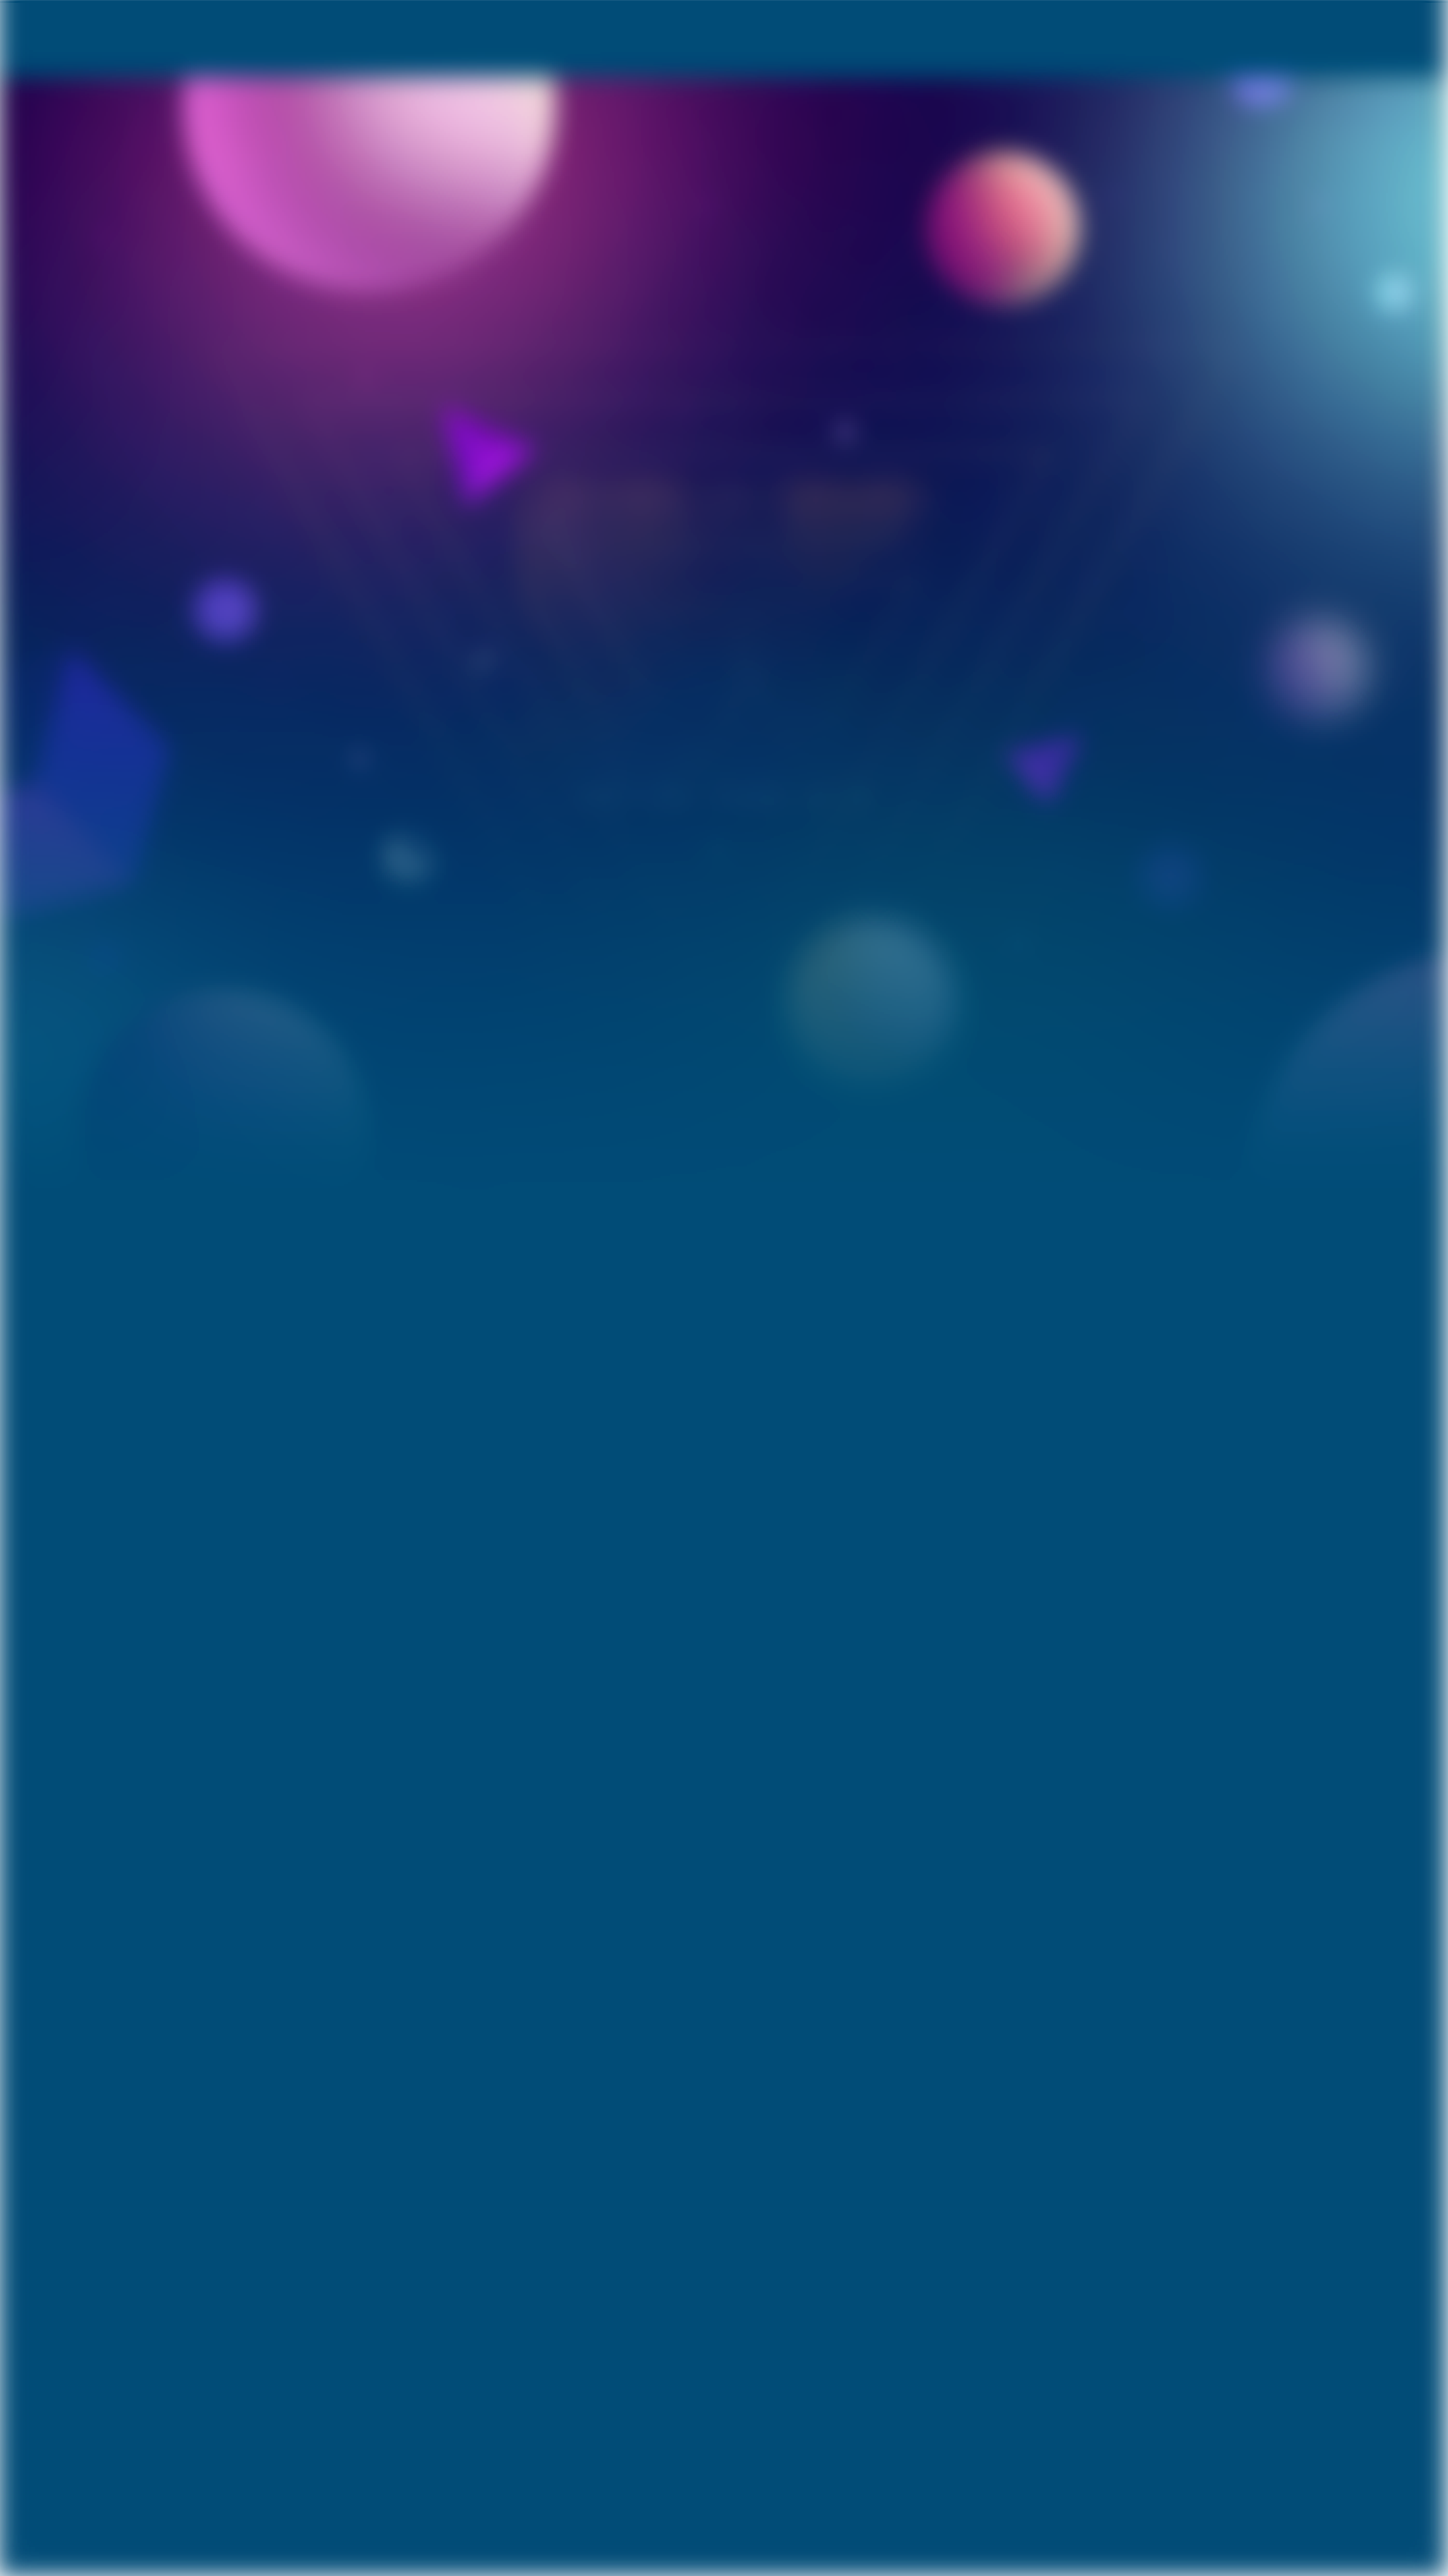
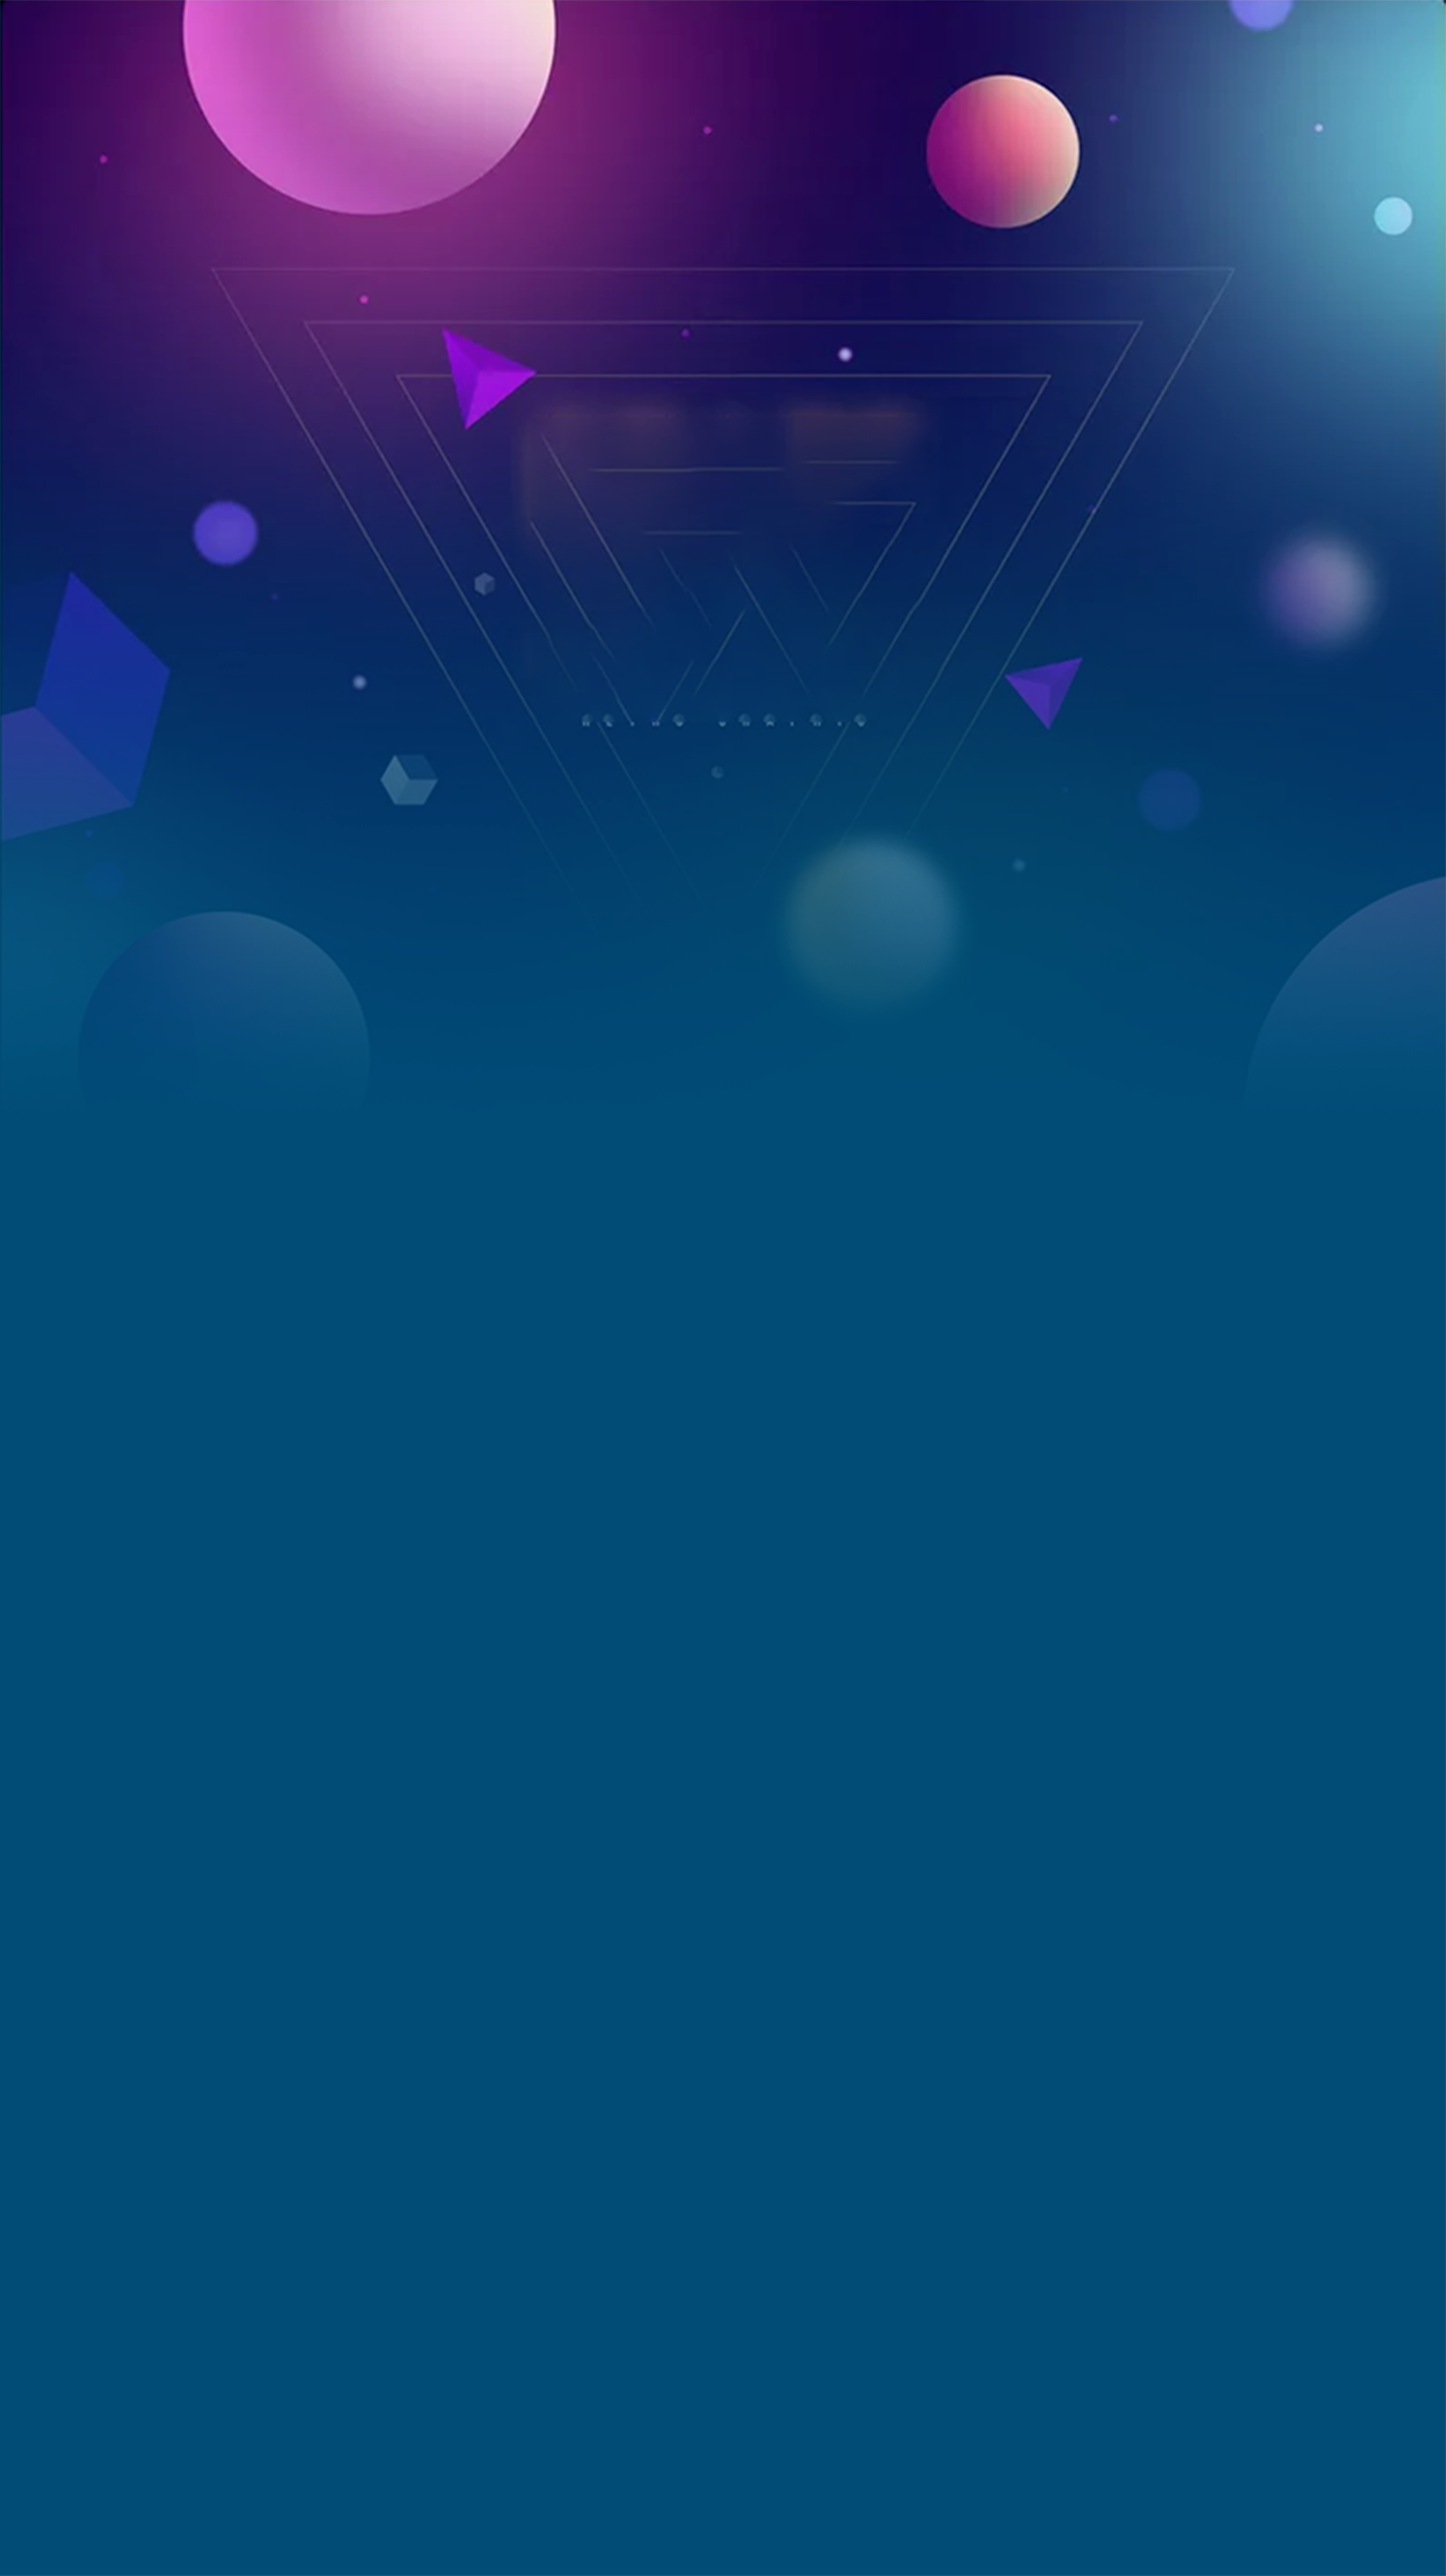
2019/09/20 切图

diff --git a/src/view/register.vue b/src/view/register.vue
@@ -55,19 +55,19 @@
         </div>
         <div class="cell-form">
           <label class="cell-label" for>代表行业 -</label>
-          <input class="cell-input" type="text" v-model="form.username" placeholder="请输入参会人姓名" />
+          <input class="cell-input" type="text" v-model="form.industry" placeholder="请输入代表行业" />
         </div>
         <div class="cell-form">
           <label class="cell-label" for>联系电话 -</label>
-          <input class="cell-input" type="text" v-model="form.username" placeholder="请输入参会人姓名" />
+          <input class="cell-input number" type="number" v-model="form.phone" placeholder="请输入联系电话" />
         </div>
         <div class="cell-form">
           <label class="cell-label" for>所在区域 -</label>
-          <input class="cell-input" type="text" v-model="form.username" placeholder="请输入参会人姓名" />
+          <input class="cell-input" type="text" v-model="form.area" placeholder="请输入所在区域" />
         </div>
         <div class="cell-form">
           <label class="cell-label" for>分会名称 -</label>
-          <input class="cell-input" type="text" v-model="form.username" placeholder="请输入参会人姓名" />
+          <input class="cell-input" type="text" v-model="form.nickname" placeholder="请输入分会名称" />
         </div>
 
         <!-- <van-field
@@ -103,7 +103,7 @@
       </div>
 
       <div class="btn-wrapper">
-        <van-button type="primary" size="large" class="confirm">提交</van-button>
+        <van-button type="primary" @click="confirms" size="large" class="confirm">提交</van-button>
       </div>
       <van-popup round v-model="show" position="bottom">
         <van-picker
@@ -126,11 +126,16 @@ export default {
     return {
       form: {
         username: "",
+        industry:"",
+        phone:"",
+        area:"",
+        nickname:"",
         tel: "",
         code: "",
         identity: "1",
         identity_text: "会员"
       },
+      state:false,
       code_text: "获取",
       clientHeight: 603,
       columns: [
@@ -173,6 +178,17 @@ export default {
         time = parseInt(time) - 1;
         this.code_text = time + "s";
       }, 1000);
+    },
+    confirms(){
+        if (this.state) {
+            this.$router.push({
+                path:"/"
+            })
+        }else{
+            this.$router.push({
+                path:"/audit"
+            })
+        }
     }
   }
 };
@@ -248,6 +264,7 @@ export default {
   font-size: 28px;
   color: #333;
   background-color: #eee;
+  appearance: none;
 }
 input.cell-tel {
   width: 293px;

diff --git a/src/router/index.js b/src/router/index.js
@@ -9,6 +9,7 @@ import activity from '@/view/activity'
 import userinfo from '@/view/userinfo'
 import membership from '@/view/membership'
 import renew from '@/view/renew'
+import audit from '@/view/audit'
 import payrecord from '@/view/payment_record'
 import guest from '@/view/my_guest'
 import register from '@/view/register'
@@ -16,6 +17,7 @@ import register from '@/view/register'
 Vue.use(Router)
 
 export default new Router({
+    // mode: 'history',
     routes: [
         {
             path: '/',
@@ -61,6 +63,10 @@ export default new Router({
             path: '/register',
             name: 'register',
             component: register
+        }, {
+            path: '/audit',
+            name: 'audit',
+            component: audit
         }
     ]
 })

diff --git a/src/view/audit.vue b/src/view/audit.vue
@@ -1,0 +1,34 @@
+<template>
+  <div class="register" :style="{minHeight: clientHeight + 'px'}">
+    <p class="cell-text">
+      您即将第8次成为本会会议的观察员/大使请等待系统后台人员审核…
+    </p>
+  </div>
+</template>
+<script>
+export default {
+  data() {
+    return {
+      clientHeight: 603
+    };
+  },
+  mounted() {
+    this.clientHeight = window.innerHeight || 603;
+  }
+};
+</script>
+<style scoped>
+.register {
+  background: url("../assets/L-auditBg.png") no-repeat center center;
+  /* background-size: 100% 100%; */
+  background-size: cover;
+  padding:0 45px;
+
+}
+.cell-text {
+  font-size: 34px;
+  line-height: 1.5;
+  color: #fff;
+  padding-top: 176px;
+}
+</style>

diff --git a/src/App.vue b/src/App.vue
@@ -52,7 +52,6 @@ export default {
 </script>
 
 <style>
-<<<<<<< HEAD
     html, body {
         background-color: #f7f7f7;
         color: #333;
@@ -69,22 +68,4 @@ export default {
         background-color: #7C384F;
         border-color: #7C384F;
     }
-=======
-html,
-body {
-  background-color: #f7f7f7;
-}
-* {
-  margin: 0;
-  padding: 0;
-  appearance: none;
-}
-img {
-  content: normal !important;
-}
-.van-button--primary {
-  background-color: #7c384f;
-  border-color: #7c384f;
-}
->>>>>>> ebed1854c516fdad47924dc517276c68371b2e99
 </style>

diff --git a/src/view/member_info.vue b/src/view/member_info.vue
@@ -3,7 +3,7 @@
     <div class="header-wrapper">
       <img class="avatar" src="@/assets/avatar.jpg" />
       <div class="username">林哲宇</div>
-      <div class="industry">室内空间设计</div>
+      <div class="industry ">室内空间设计</div>
       <div class="position">活动统筹组员</div>
     </div>
     <div class="section">
